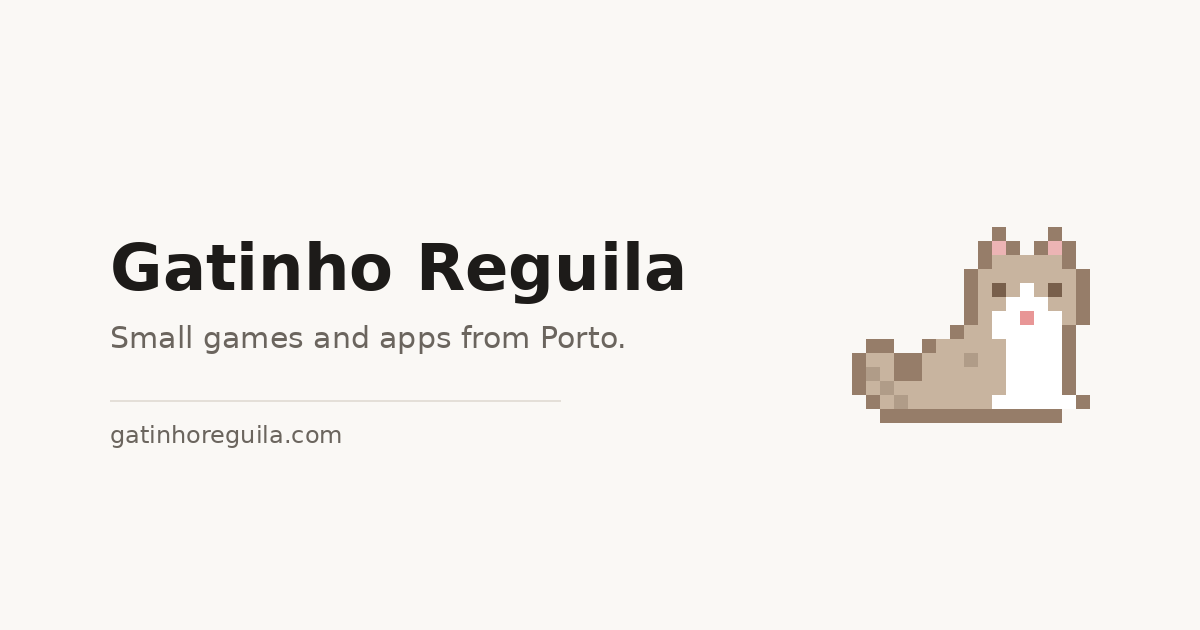
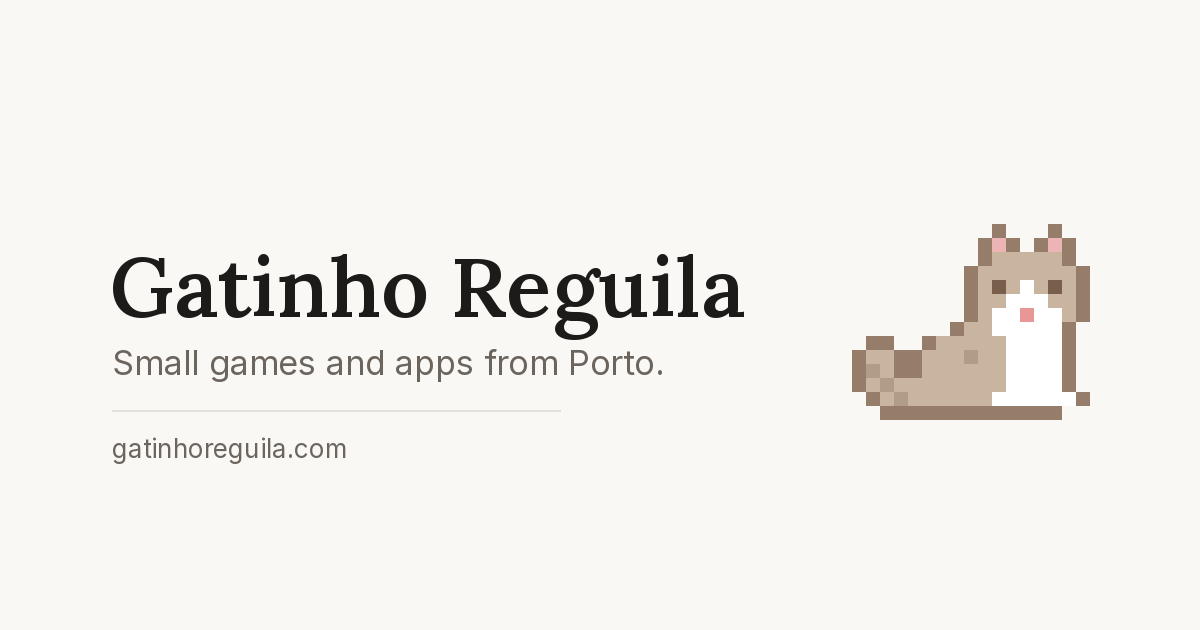
홈페이지 다듬기: 아이콘 칸 정렬, 다크모드 아이콘 바탕, 꼬비 파비콘·공유 이미지
- 제품 아이콘을 같은 크기 칸에 넣어 이름 시작점을 맞춤
- 상태 글자(coming soon 등)를 이름과 같은 높이로
- 다크모드에서 아이콘 뒤에 옅은 바탕
- 파비콘·홈 화면 아이콘을 꼬비 도트로, 공유 이미지를 사이트 글꼴(Lora)로 다시 만듦
- EJECT 링크 About → More / 자세히 보기 / Saber mais
- 꼬비가 회사 이름 옆에서 시작

Claude-Session: https://claude.ai/code/session_01Fb74iKx6TjtEtoQkba9BdJ

diff --git a/index.html b/index.html
@@ -11,8 +11,9 @@
 <meta property="og:image" content="https://gatinhoreguila.com/og.png">
 <meta property="og:url" content="https://gatinhoreguila.com/">
 <meta name="twitter:card" content="summary_large_image">
-<link rel="icon" type="image/png" href="icon.png">
-<link rel="apple-touch-icon" href="icon.png">
+<link rel="icon" type="image/png" sizes="32x32" href="favicon-32.png">
+<link rel="icon" type="image/png" sizes="192x192" href="icon.png">
+<link rel="apple-touch-icon" href="apple-touch-icon.png">
 <link rel="preconnect" href="https://fonts.googleapis.com">
 <link rel="preconnect" href="https://fonts.gstatic.com" crossorigin>
 <link rel="stylesheet" href="https://fonts.googleapis.com/css2?family=Lora:wght@500;600&display=swap">
@@ -39,10 +40,15 @@ p{margin:0}
 .mission small{display:block;color:var(--mute);font-size:14px;margin-top:4px}
 .item{display:grid;grid-template-columns:1fr auto;gap:2px 16px;align-items:baseline;padding:16px 0;border-bottom:1px solid var(--line)}
 .list .item:last-child{border-bottom:0}
-.item b{font-size:16px;display:inline-flex;align-items:center;gap:9px}
-.item b img{image-rendering:pixelated;height:auto;opacity:.9}
+.item b{font-size:16px;display:inline-flex;align-items:center;gap:12px}
+.ic{flex:none;width:40px;height:40px;border-radius:9px;background:var(--soft);display:inline-flex;align-items:center;justify-content:center}
+.item b img{image-rendering:pixelated;height:auto;display:block}
+@media (prefers-color-scheme:dark){:root:not([data-theme="light"]) .ic{background:#d8d1c7}}
+:root[data-theme="dark"] .ic{background:#d8d1c7}
 .item .d{grid-column:1;color:var(--mute);font-size:14.5px}
-.item .s{grid-column:2;grid-row:1;color:var(--mute);font-size:13px;white-space:nowrap}
+.item .s{grid-column:2;grid-row:1;align-self:center;color:var(--mute);font-size:13px;white-space:nowrap}
+.item>b{grid-column:1;grid-row:1;align-self:center}
+.item .d{margin-top:8px}
 .item .l{grid-column:1;font-size:14px;margin-top:2px}
 .item .l a{text-decoration:none;border-bottom:1px solid var(--line)}
 .item .l a:hover{border-color:var(--fg)}
@@ -96,16 +102,16 @@ span.ko,span.pt{display:none} html[data-lang="ko"] span.ko,html[data-lang="pt"] 
 <h2><span class="en">Now</span><span class="ko">지금</span><span class="pt">Agora</span></h2>
 <div class="list">
 <div class="item">
-  <b><img data-ic="film" alt="">EJECT</b><span class="s">iPhone · <span class="en">coming soon</span><span class="ko">출시 준비 중</span><span class="pt">em breve</span></span>
+  <b><span class="ic"><img data-ic="film" alt=""></span>EJECT</b><span class="s">iPhone · <span class="en">coming soon</span><span class="ko">출시 준비 중</span><span class="pt">em breve</span></span>
   <span class="d"><span class="en">Pick photos, get a film photo book. Developed on your phone, nothing leaves it.</span><span class="ko">사진을 고르면 필름 사진집이 나와요. 폰 안에서 현상되고, 밖으로 나가지 않아요.</span><span class="pt">Escolha fotos, receba um álbum de filme. Revelado no telemóvel, nada sai dele.</span></span>
-  <span class="l"><a href="eject/"><span class="en">About</span><span class="ko">소개</span><span class="pt">Sobre</span></a><a href="eject/support/"><span class="en">Support</span><span class="ko">지원</span><span class="pt">Suporte</span></a><a href="eject/privacy/"><span class="en">Privacy</span><span class="ko">개인정보</span><span class="pt">Privacidade</span></a></span>
+  <span class="l"><a href="eject/"><span class="en">More</span><span class="ko">자세히 보기</span><span class="pt">Saber mais</span></a><a href="eject/support/"><span class="en">Support</span><span class="ko">지원</span><span class="pt">Suporte</span></a><a href="eject/privacy/"><span class="en">Privacy</span><span class="ko">개인정보</span><span class="pt">Privacidade</span></a></span>
 </div>
 <div class="item">
-  <b><img data-ic="pig" alt="">Gumdang Farm</b><span class="s"><span class="en">in the making</span><span class="ko">만드는 중</span><span class="pt">a caminho</span></span>
+  <b><span class="ic"><img data-ic="pig" alt=""></span>Gumdang Farm</b><span class="s"><span class="en">in the making</span><span class="ko">만드는 중</span><span class="pt">a caminho</span></span>
   <span class="d"><span class="en">A farm that keeps growing while you're away.</span><span class="ko">잠시 떠나 있어도 자라는 농장.</span><span class="pt">Uma quinta que continua a crescer enquanto não está.</span></span>
 </div>
 <div class="item">
-  <b><img data-ic="owl" alt="">Owl Tower</b><span class="s"><span class="en">in the making</span><span class="ko">만드는 중</span><span class="pt">a caminho</span></span>
+  <b><span class="ic"><img data-ic="owl" alt=""></span>Owl Tower</b><span class="s"><span class="en">in the making</span><span class="ko">만드는 중</span><span class="pt">a caminho</span></span>
   <span class="d"><span class="en">Seventy-two floors of riddles.</span><span class="ko">수수께끼로 오르는 72층.</span><span class="pt">Setenta e dois andares de enigmas.</span></span>
 </div>
 </div>
@@ -138,7 +144,7 @@ function maxX(){ return Math.max(0, lane.clientWidth - cat.offsetWidth); }
 function place(){ cat.style.transform=`translateX(${-x}px)`; cat.classList.toggle('flip', dir>0); }
 function pick(){ if(isNight()){ state='sleep'; show('sleep'); wait=60; return; } const r=Math.random(); if(r<.35 && !reduce){ state='walk'; dir=(x<=0)?-1:(x>=maxX()?1:(Math.random()<.5?1:-1)); wait=1.5+Math.random()*3; } else if(r<.7){ state='sit'; show('sit'); wait=4+Math.random()*5; } else if(r<.85){ state='lie'; show('lie'); wait=2.5; } else { state='sleep'; show('sleep'); wait=5+Math.random()*5; } }
 function loop(t){ const dt=Math.min(.05,(t-last)/1000); last=t; if(!held){ wait-=dt; if(state==='walk'){ x+= -dir*14*dt; if(x<0){x=0;dir=-1;wait=0;} if(x>maxX()){x=maxX();dir=1;wait=0;} ft+=dt; if(ft>.16){ ft=0; f=(f+1)%4; show('walk'+f); } } if(wait<=0) pick(); } place(); requestAnimationFrame(loop); }
-show('sit'); place(); requestAnimationFrame(loop);
+show('sit'); x=maxX(); place(); requestAnimationFrame(loop);
 cat.addEventListener('click',()=>{ held=true; show('pet'); const L=LINES[root.getAttribute('data-lang')]||LINES.en; say.textContent=isNight()?NIGHT[root.getAttribute('data-lang')]||'zzz':L[li++%L.length]; say.classList.add('on'); setTimeout(()=>say.classList.remove('on'),1800); setTimeout(()=>{ held=false; state='sit'; show('sit'); wait=4; },1400); });
 </script>
 </body>
